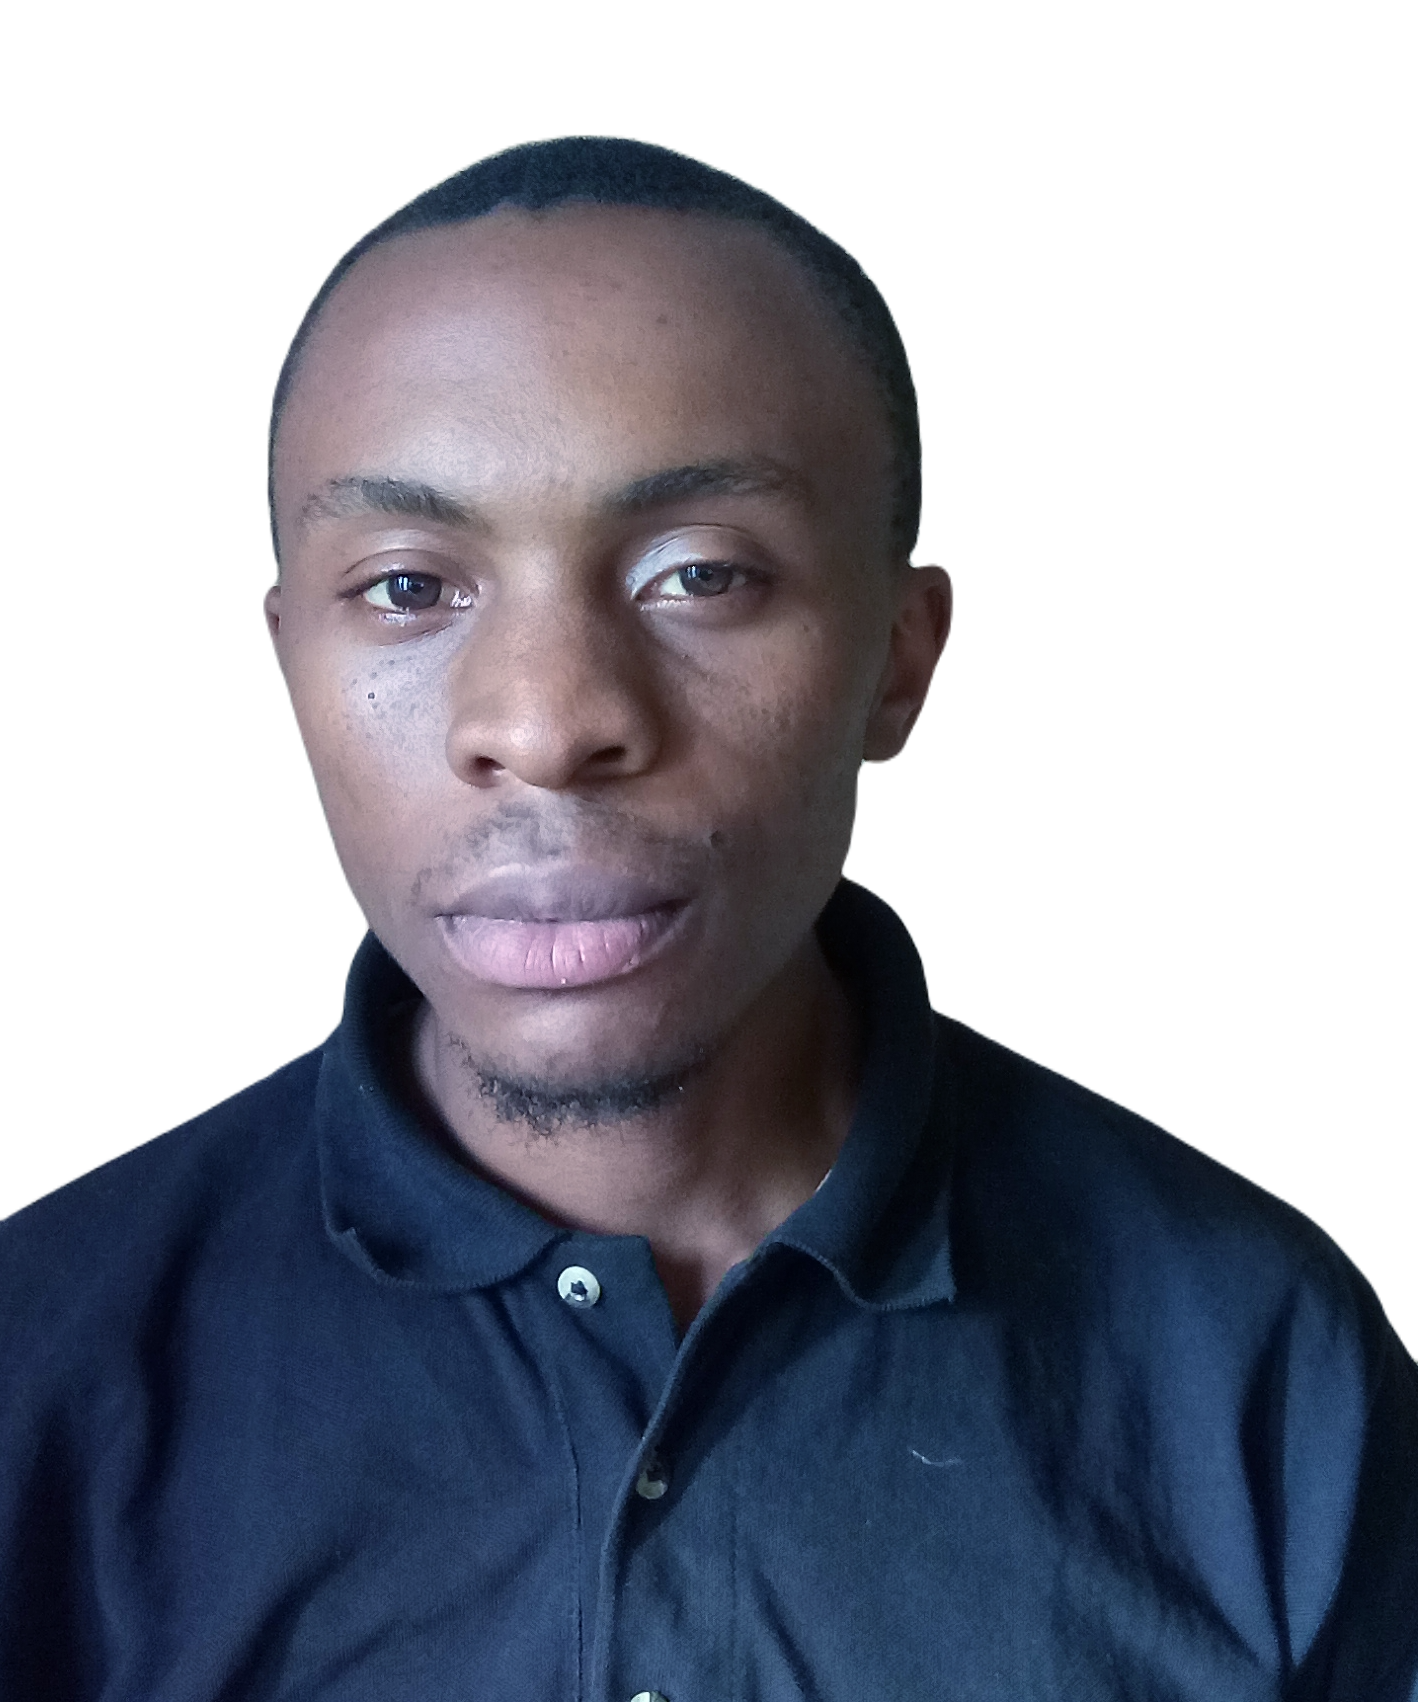
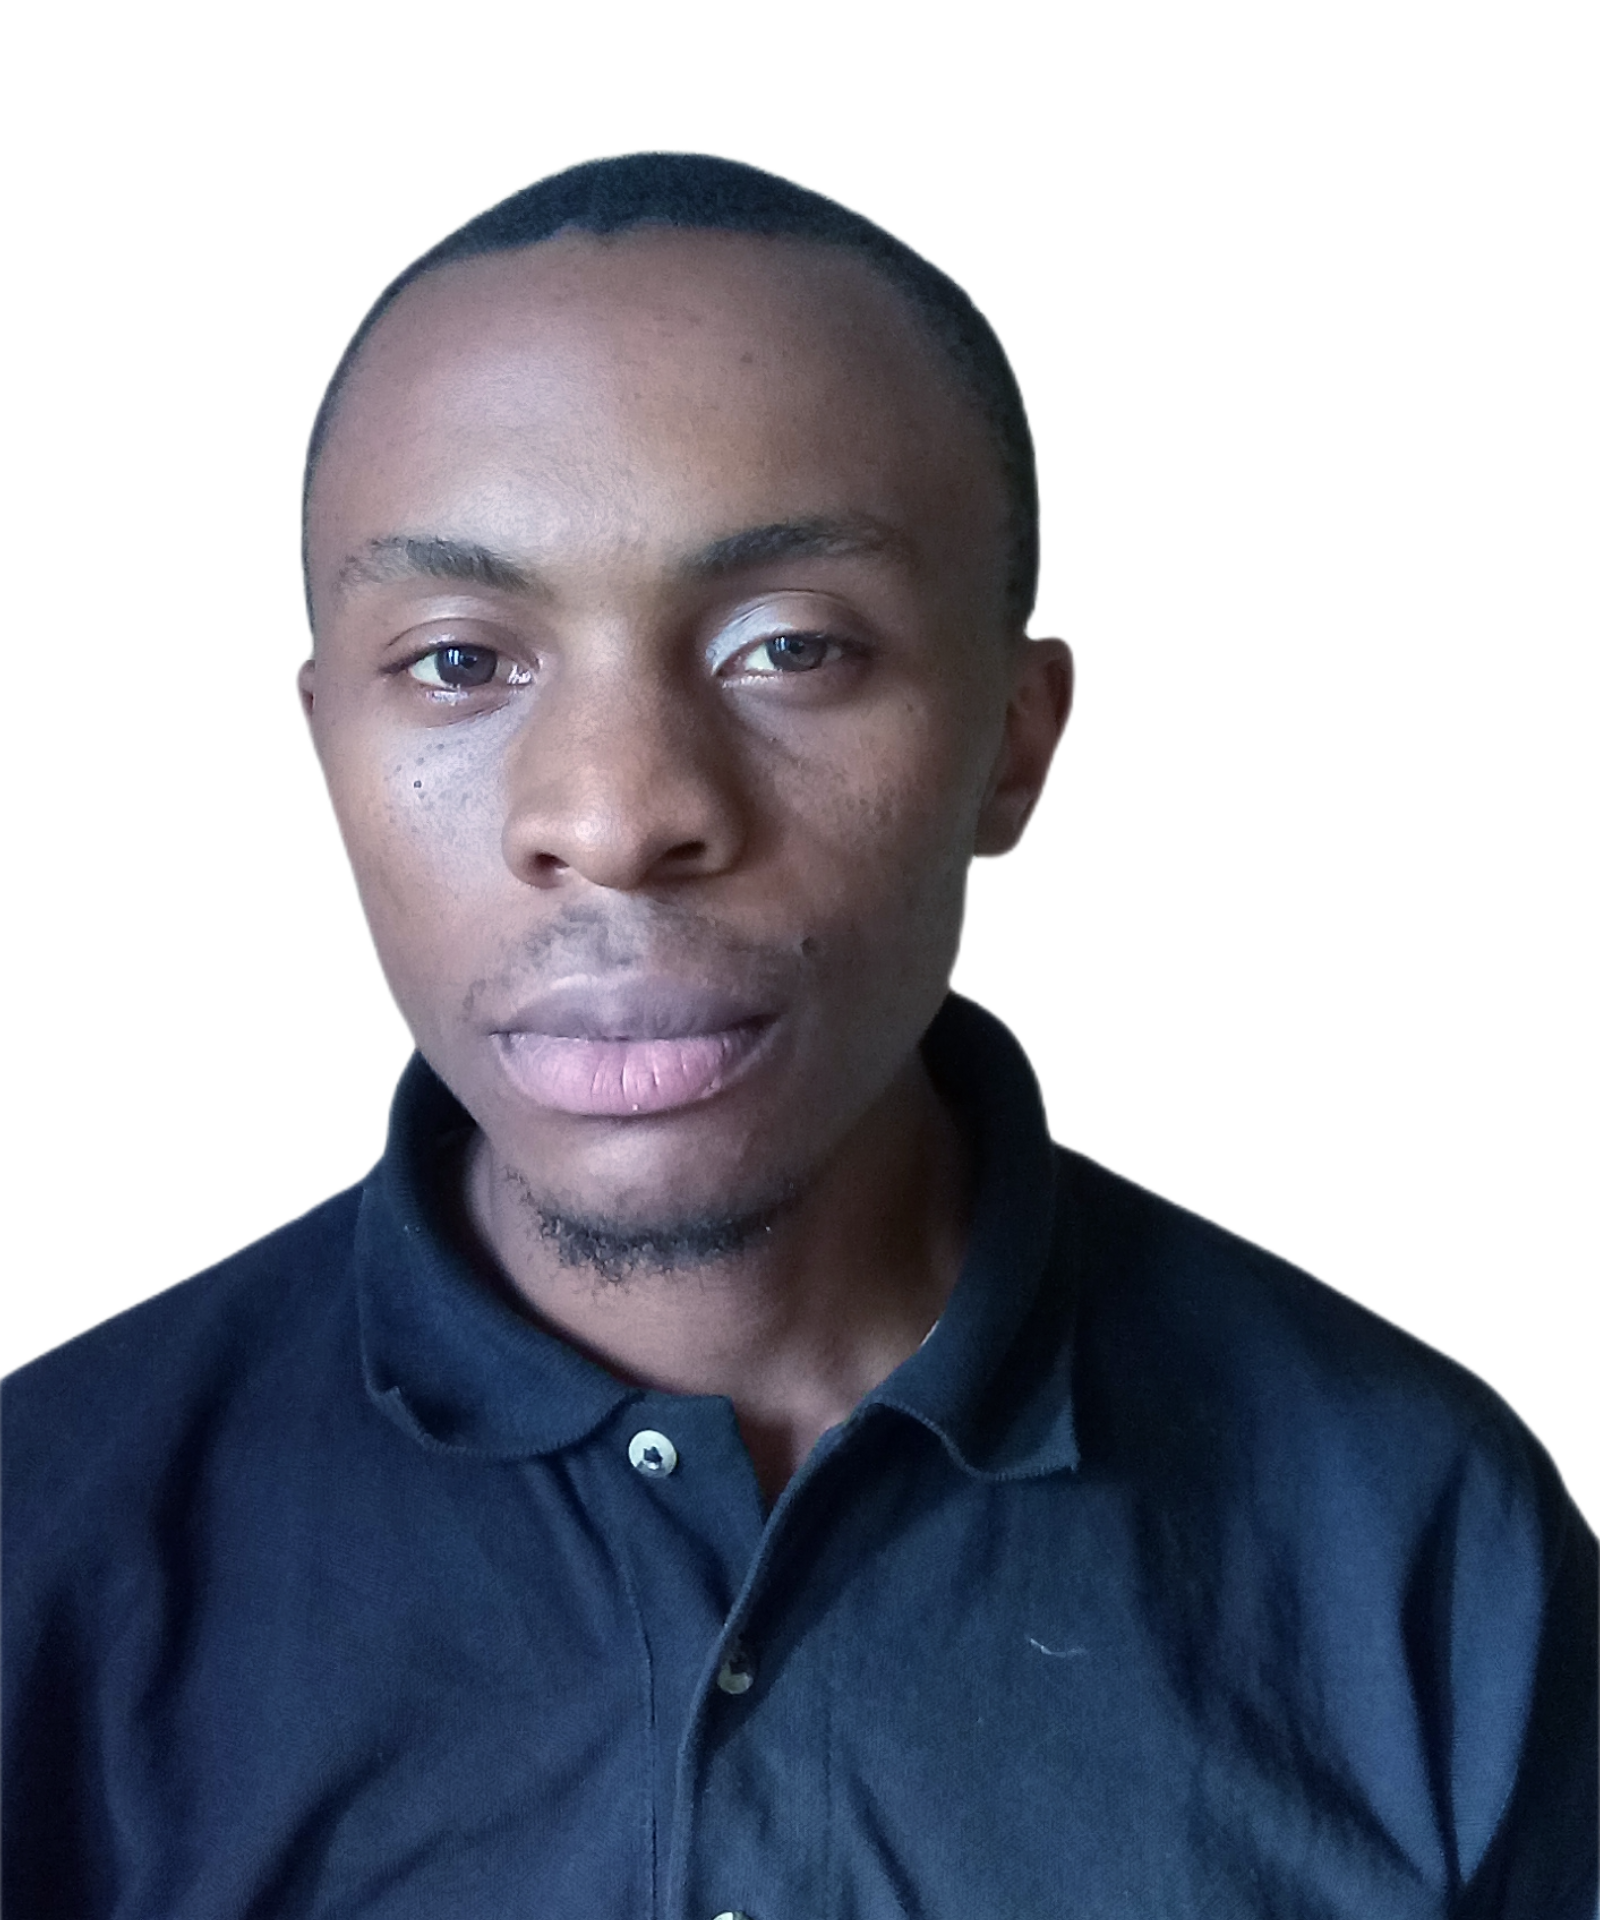
modification des images

diff --git a/index.html b/index.html
@@ -78,9 +78,9 @@
             <section class="hero" id="Acceuil">
                 <figure class="hero-banner">
                     <picture>
-                        <source srcset="./asset/image/2.jpg" media="(min-width:768px)">
+                        <source srcset="./asset/image/2.png" media="(min-width:768px)">
                         <source srcset="./asset/image/1.png" media="(min-width:500px)">
-                        <img src="./asset/image/2.jpg" alt="ca ce ma vilaine tronche" class="w-100">
+                        <img src="./asset/image/2.png" alt="ca ce ma vilaine tronche" class="w-100">
                     </picture>
                 </figure>
                 <div class="hero-content">
